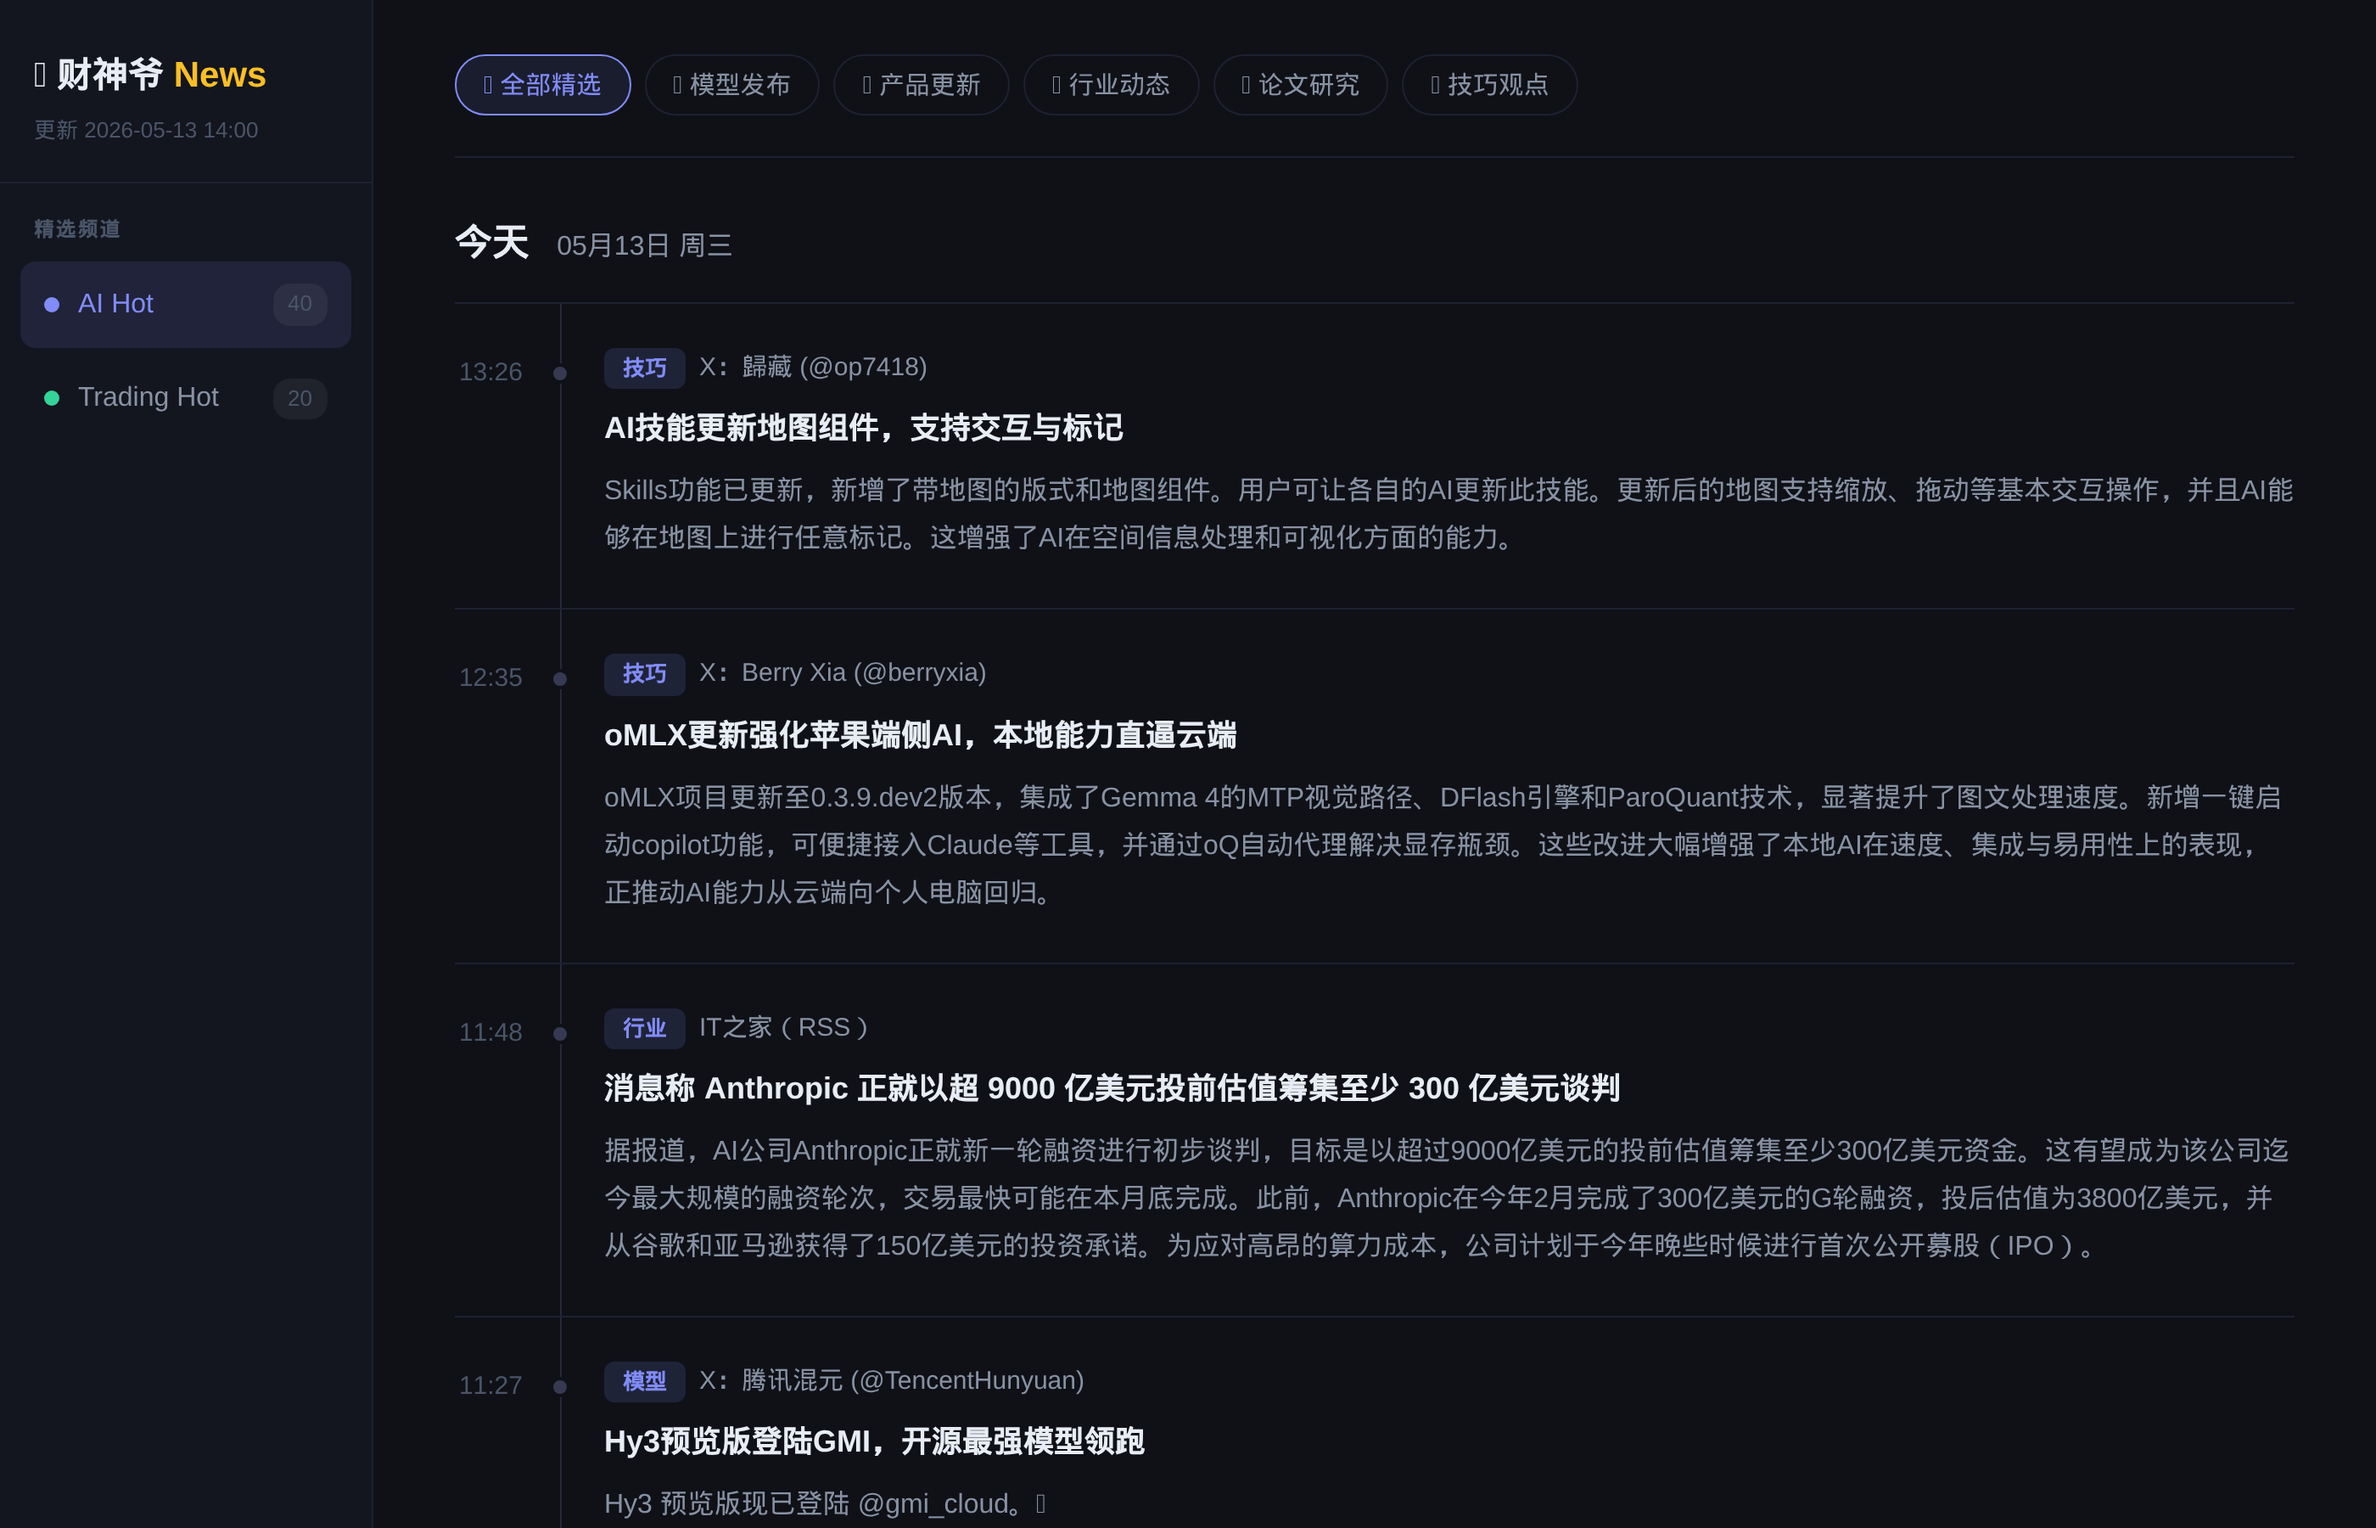
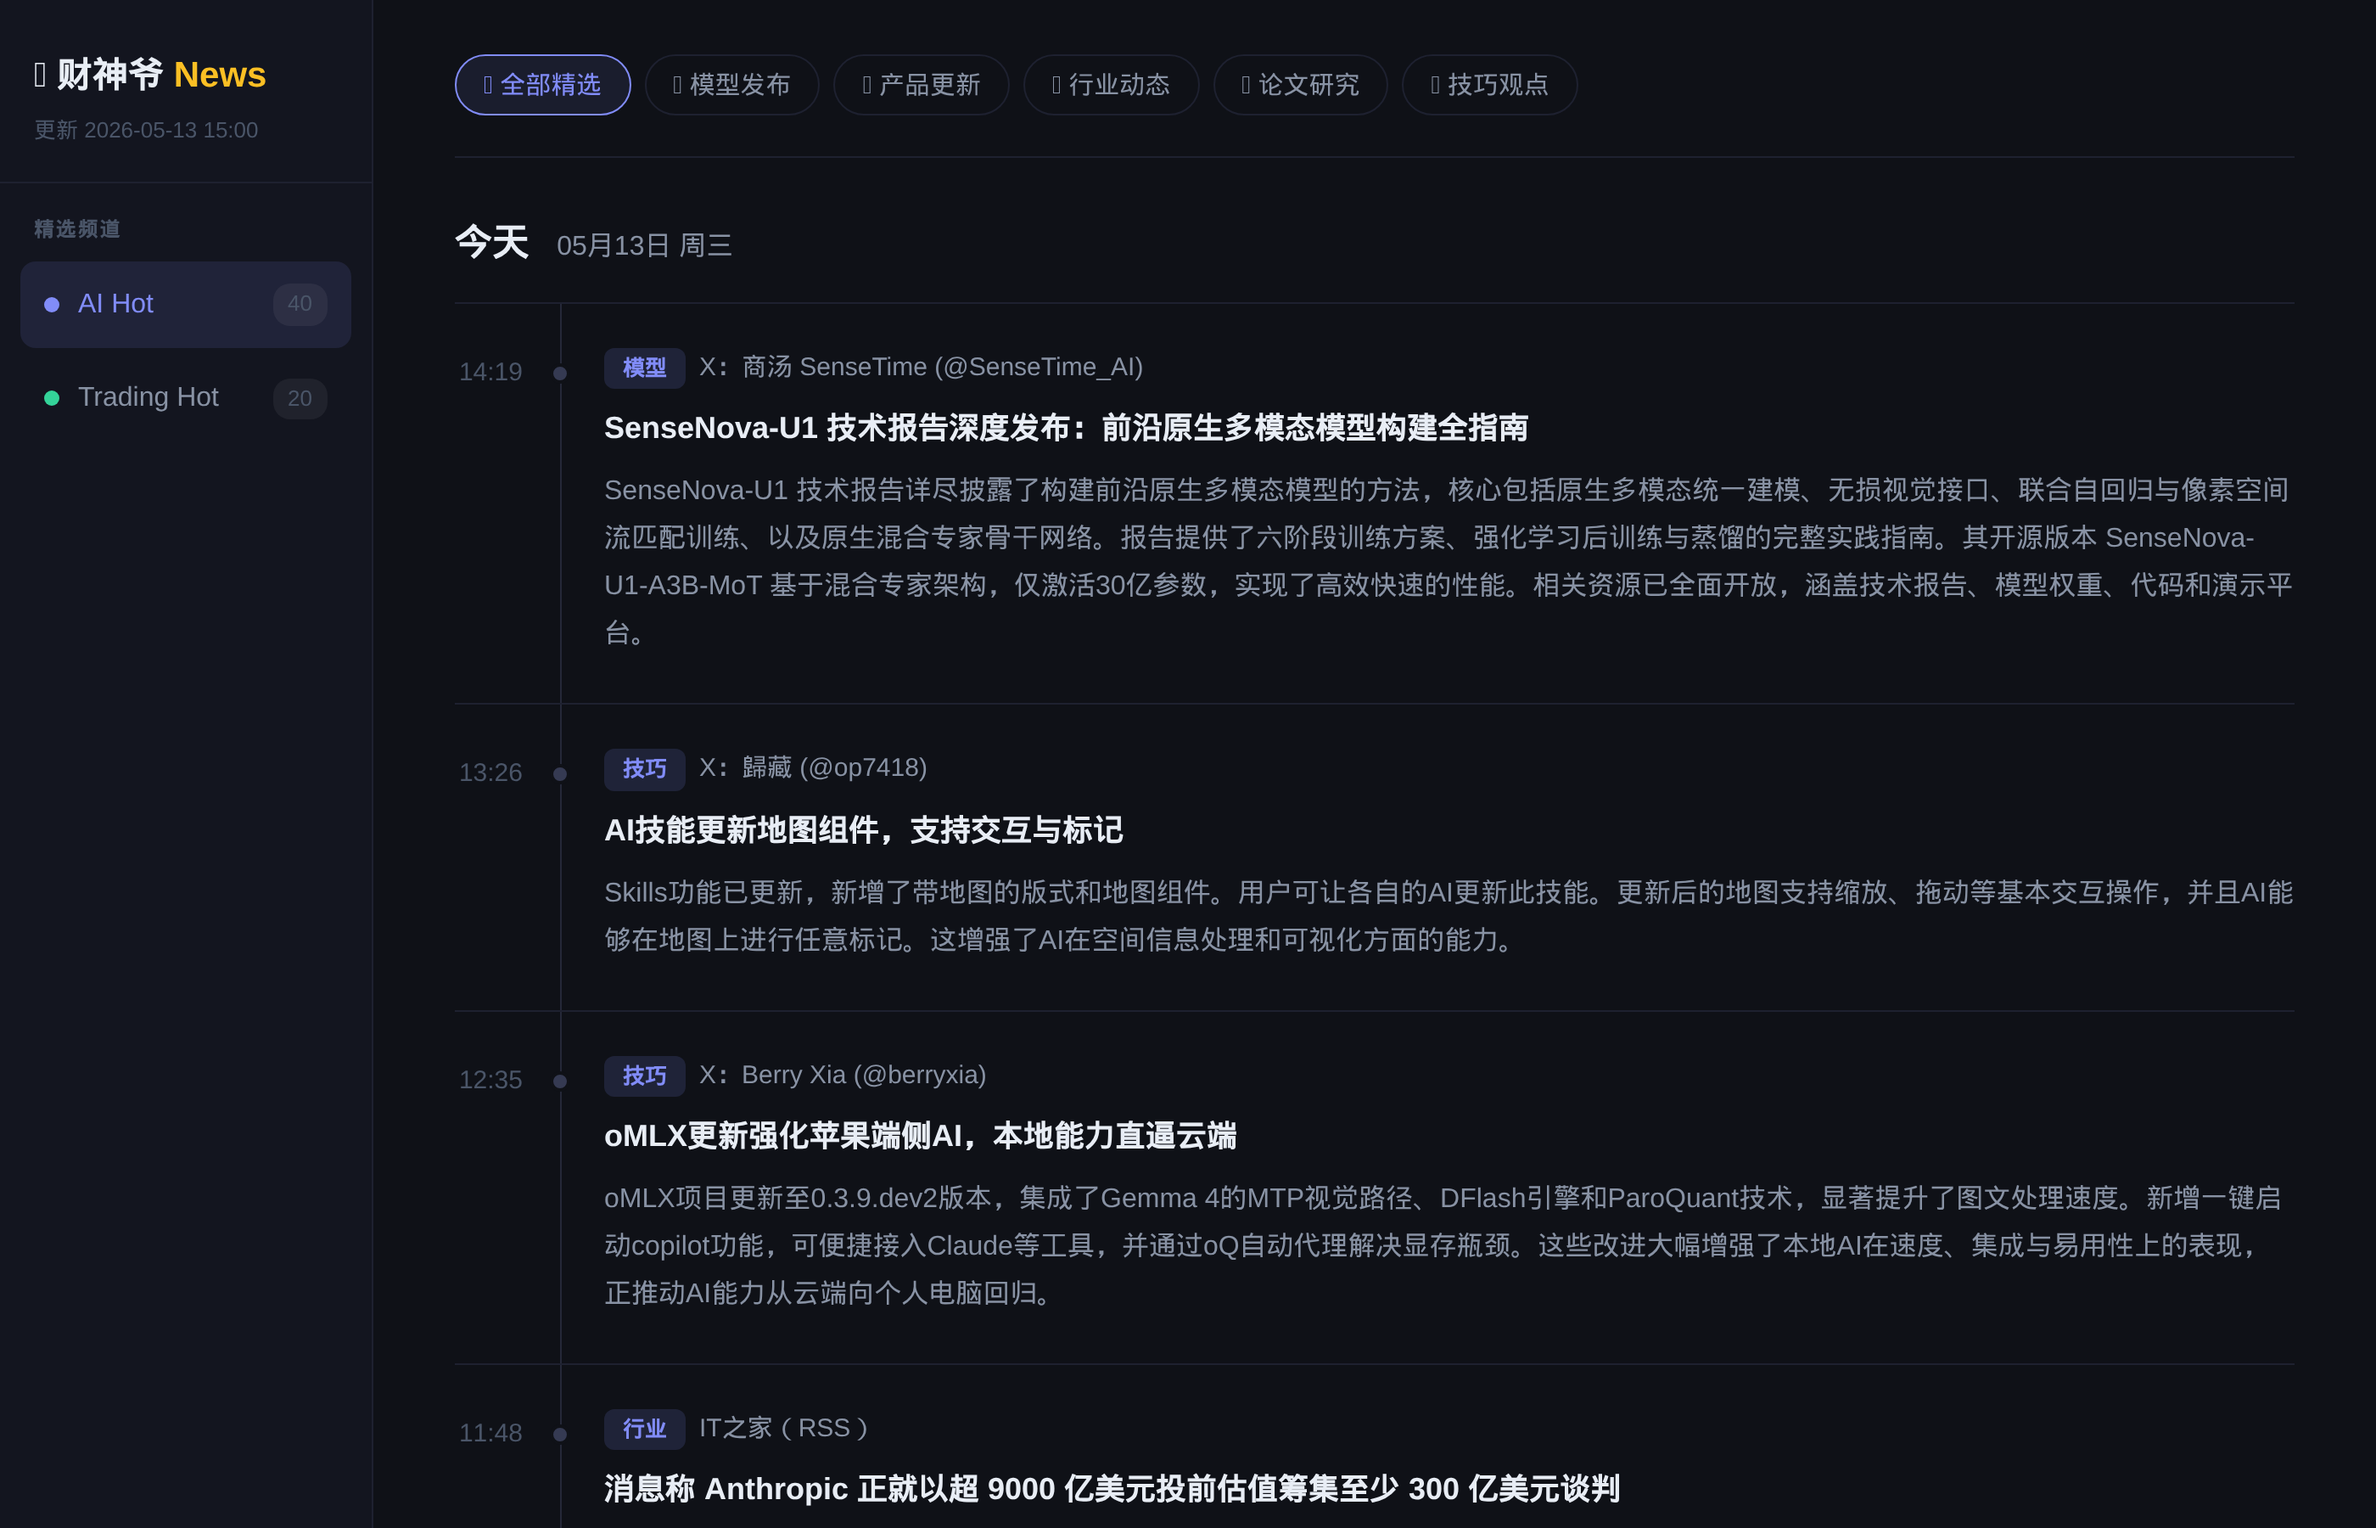
auto update 2026-05-13 15:00

diff --git a/index.html b/index.html
@@ -106,7 +106,7 @@ body{font-family:-apple-system,BlinkMacSystemFont,"Segoe UI","PingFang SC","Micr
 <body>
 <aside class="sb">
   <div class="sb-logo">💰 财神爷 <span>News</span>
-    <div class="sb-up">更新 2026-05-13 14:00</div>
+    <div class="sb-up">更新 2026-05-13 15:00</div>
   </div>
   <nav class="sb-nav">
     <div class="nav-lbl">精选频道</div>
@@ -124,6 +124,15 @@ body{font-family:-apple-system,BlinkMacSystemFont,"Segoe UI","PingFang SC","Micr
         <div class="dgroup">
       <div class="dheader">今天 <span class='dsub'>05月13日 周三</span></div>
       <div class="ilist">
+      <div class="item" data-cats="ai-models">
+        <div class="item-time">14:19</div>
+        <div class="item-body">
+          <div class="item-meta"><span class="badge badge-ai">模型</span><span class="isrc">X：商汤 SenseTime (@SenseTime_AI)</span></div>
+          <a class="item-title" href="https://x.com/SenseTime_AI/status/2054446490420924558" target="_blank" rel="noopener">SenseNova-U1 技术报告深度发布：前沿原生多模态模型构建全指南</a>
+          <div class="item-summary">SenseNova-U1 技术报告详尽披露了构建前沿原生多模态模型的方法，核心包括原生多模态统一建模、无损视觉接口、联合自回归与像素空间流匹配训练、以及原生混合专家骨干网络。报告提供了六阶段训练方案、强化学习后训练与蒸馏的完整实践指南。其开源版本 SenseNova-U1-A3B-MoT 基于混合专家架构，仅激活30亿参数，实现了高效快速的性能。相关资源已全面开放，涵盖技术报告、模型权重、代码和演示平台。</div>
+        </div>
+      </div>
+
       <div class="item" data-cats="tip">
         <div class="item-time">13:26</div>
         <div class="item-body">
@@ -519,15 +528,6 @@ https：//x.com/browser_use/status/2054330495249564094/video/1</div>
           <div class="item-summary">用户利用GPT image 2与Kling AI，根据详细提示词生成了一张模拟电视转播视角的超写实F1赛事直播截图。画面聚焦于一位在VIP围场/车队车库中的年轻女性，其身份特征从参考图像中被精确保留。她佩戴专业赛车耳机，神情紧张专注，画面包含&quot;FINAL LAP&quot;横幅、计时塔、直播标识等完整的转播图形元素。作品特别注重广播级细节，如压缩伪影、自然肤质和8K画质，旨在完美呈现如同真实电视截图的视觉效果。</div>
         </div>
       </div>
-
-      <div class="item" data-cats="industry">
-        <div class="item-time">11:55</div>
-        <div class="item-body">
-          <div class="item-meta"><span class="badge badge-ai">行业</span><span class="isrc">IT之家（RSS）</span></div>
-          <a class="item-title" href="https://www.ithome.com/0/949/198.htm" target="_blank" rel="noopener">全国首例 AI 代写&quot;种草笔记&quot;案宣判，法院判决工具提供者赔偿平台 10 万元</a>
-          <div class="item-summary">全国首例 AI 代写&quot;种草笔记&quot;不正当竞争案在浙江省杭州市中级人民法院宣判。被告 B 公司和 C 公司运营的 AI 写作工具能一键生成某社交平台风格的种草文案，以会员制营利，诱导用户发布虚假消费体验，破坏平台真实内容生态。法院判决被告赔偿原告经济损失及合理开支共计 10 万元，并创新性使用&quot;四要素判定法&quot;，明确生成式人工智能服务提供者需尽到合理注意义务，为治理 AI 生成虚假信息划定了法律边界。</div>
-        </div>
-      </div>
       </div>
     </div>
   </div>
@@ -576,7 +576,7 @@ https：//x.com/browser_use/status/2054330495249564094/video/1</div>
         </div>
       </div>
 
-      <div class="item" data-cats="ai_tech top">
+      <div class="item" data-cats="top ai_tech">
         <div class="item-time">04:36</div>
         <div class="item-body">
           <div class="item-meta"><span class="badge badge-trading">市场异动</span><span class="score-badge">67分</span><span class="isrc">MarketWatch Top Stories</span><span class="ticker">$V</span></div>
@@ -656,7 +656,7 @@ https：//x.com/browser_use/status/2054330495249564094/video/1</div>
         </div>
       </div>
 
-      <div class="item" data-cats="top macro geo">
+      <div class="item" data-cats="macro top geo">
         <div class="item-time">02:10</div>
         <div class="item-body">
           <div class="item-meta"><span class="badge badge-trading">市场异动</span><span class="score-badge">72分</span><span class="isrc">CNBC Top News</span><span class="ticker">$C</span></div>
